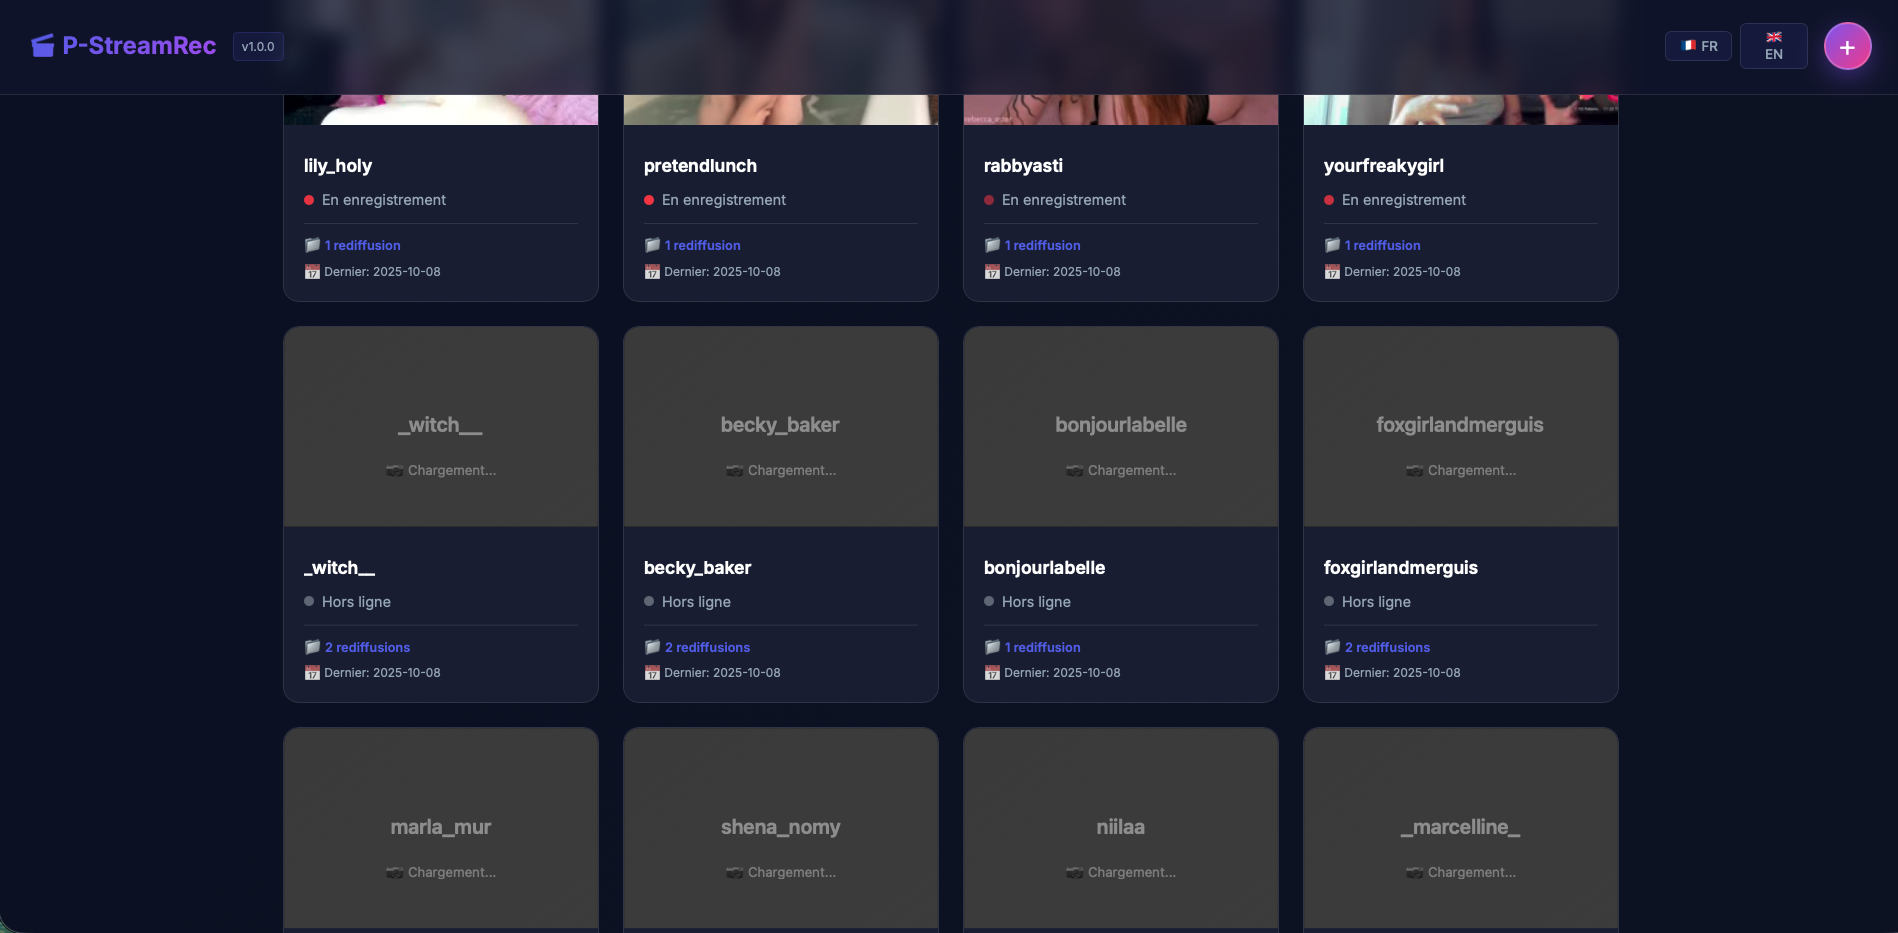
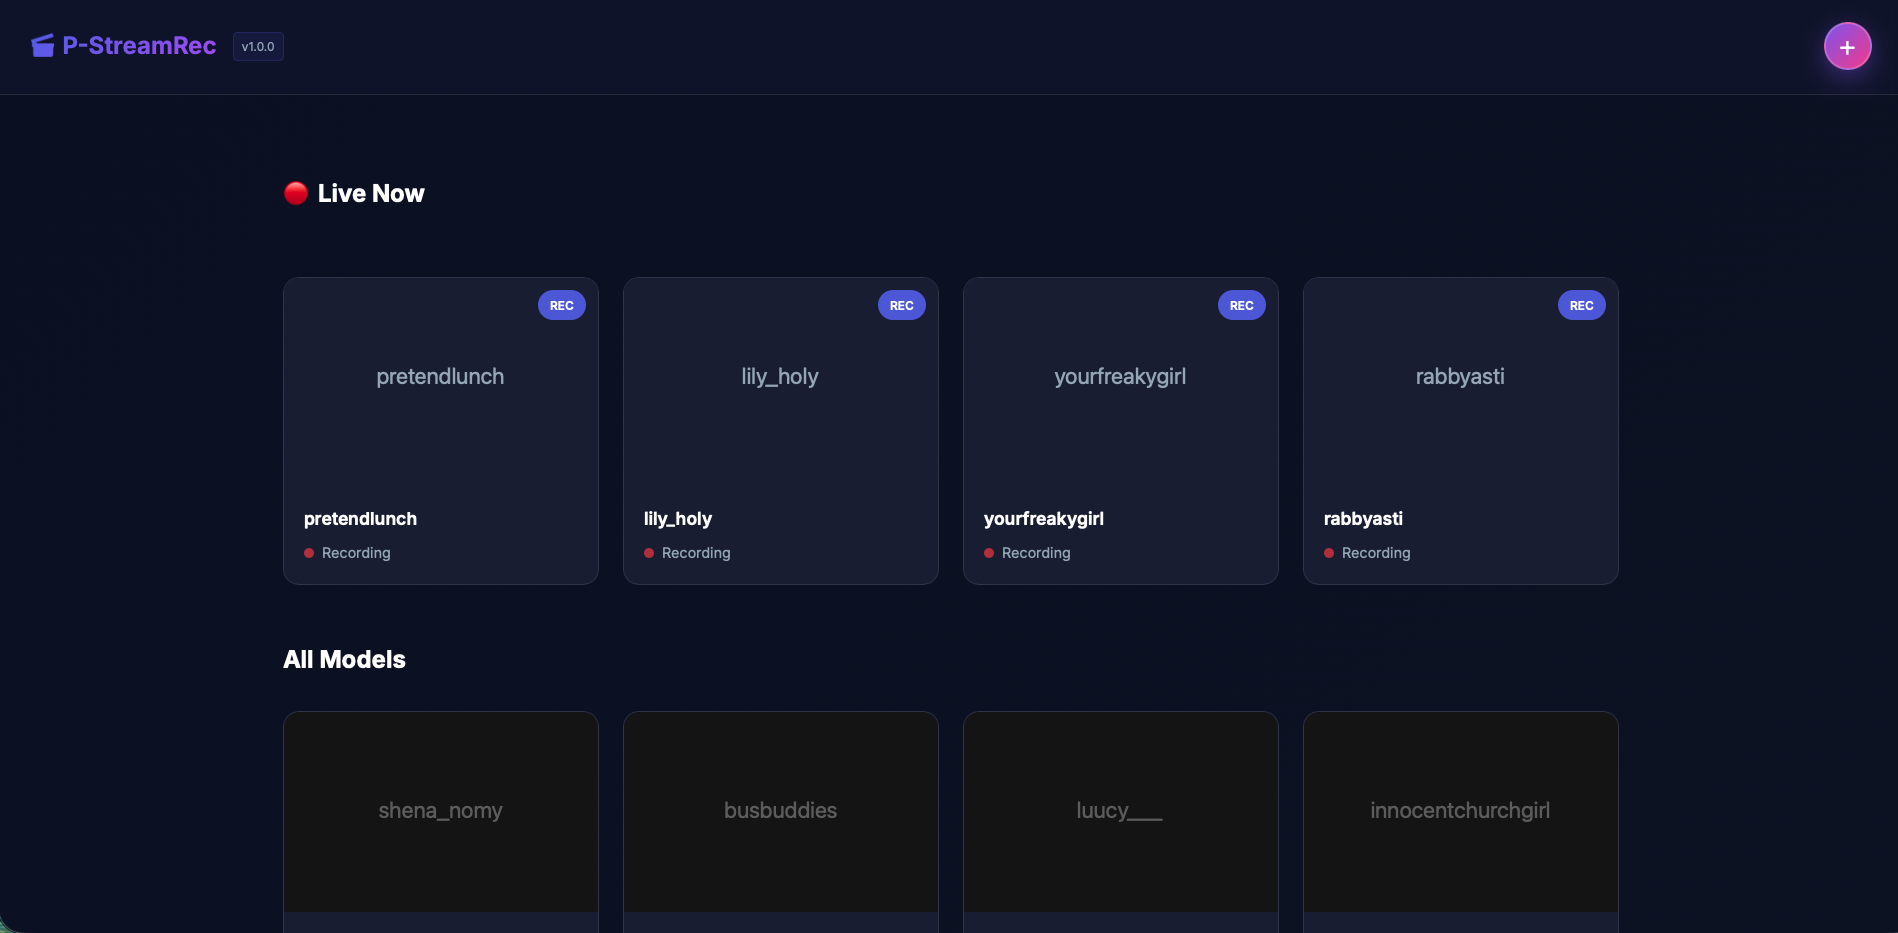
⚡ Performance: Parallel loading + Dynamic thumbnails
✅ Performance optimizations:
- Load ALL model info in parallel (Promise.all)
- Much faster updates (sequential → parallel)
- Reduced from 30s to 15s refresh interval

✅ Dynamic thumbnails:
- Live models: Refresh thumbnail with cache bust
- Offline models: Grayscale + darker filter
- Auto-update every 15 seconds
- Visual feedback for status

✅ How it works:
1. Live/Recording: Color + fresh thumbnail
2. Offline: Grayscale(100%) + brightness(0.7)
3. Parallel requests = faster loading
4. Cache bust: ?t=timestamp for live thumbnails

Much faster and more responsive! ⚡

diff --git a/static/app.js b/static/app.js
@@ -145,11 +145,18 @@ async function updateModelsStatus() {
     const liveSection = document.getElementById('liveSection');
     let liveCount = 0;
     
-    for (const model of models) {
+    // Charger TOUTES les infos en PARALLÈLE (beaucoup plus rapide)
+    const modelsInfo = await Promise.all(
+      models.map(model => getModelInfo(model.username))
+    );
+    
+    for (let i = 0; i < models.length; i++) {
+      const model = models[i];
+      const modelInfo = modelsInfo[i];
+      
       const card = document.querySelector(`.model-card[data-username="${model.username}"]`);
       if (!card) continue; // Carte pas encore créée
       
-      const modelInfo = await getModelInfo(model.username);
       const isRecording = sessions.some(s => s.person === model.username && s.running);
       const isLive = isRecording || modelInfo.isOnline;
       
@@ -180,6 +187,21 @@ async function updateModelsStatus() {
           ${isRecording ? 'Recording' : modelInfo.isOnline ? 'Live' : 'Offline'}
           ${modelInfo.isOnline && modelInfo.viewers > 0 ? ` · ${modelInfo.viewers} viewers` : ''}
         `;
+      }
+      
+      // Mettre à jour la miniature
+      const thumbnail = card.querySelector('.model-thumbnail');
+      if (thumbnail) {
+        // Live/Recording : Couleur + rafraîchir
+        if (isLive) {
+          thumbnail.style.filter = 'none';
+          // Rafraîchir la miniature (cache bust)
+          const baseUrl = modelInfo.thumbnail.split('?')[0];
+          thumbnail.src = `${baseUrl}?t=${Date.now()}`;
+        } else {
+          // Offline : Noir et blanc
+          thumbnail.style.filter = 'grayscale(100%) brightness(0.7)';
+        }
       }
       
       // DÉPLACER les cartes LIVE dans la section LIVE
@@ -391,8 +413,8 @@ window.addEventListener('DOMContentLoaded', () => {
   // Afficher les modèles
   renderModels();
   
-  // Mettre à jour les statuts toutes les 30 secondes (dynamique, sans recharger)
-  setInterval(updateModelsStatus, 30000);
+  // Mettre à jour les statuts toutes les 15 secondes (rapide et dynamique)
+  setInterval(updateModelsStatus, 15000);
   
   // Vérifier et démarrer les enregistrements toutes les 60 secondes
   setInterval(checkAndStartRecordings, 60000);
